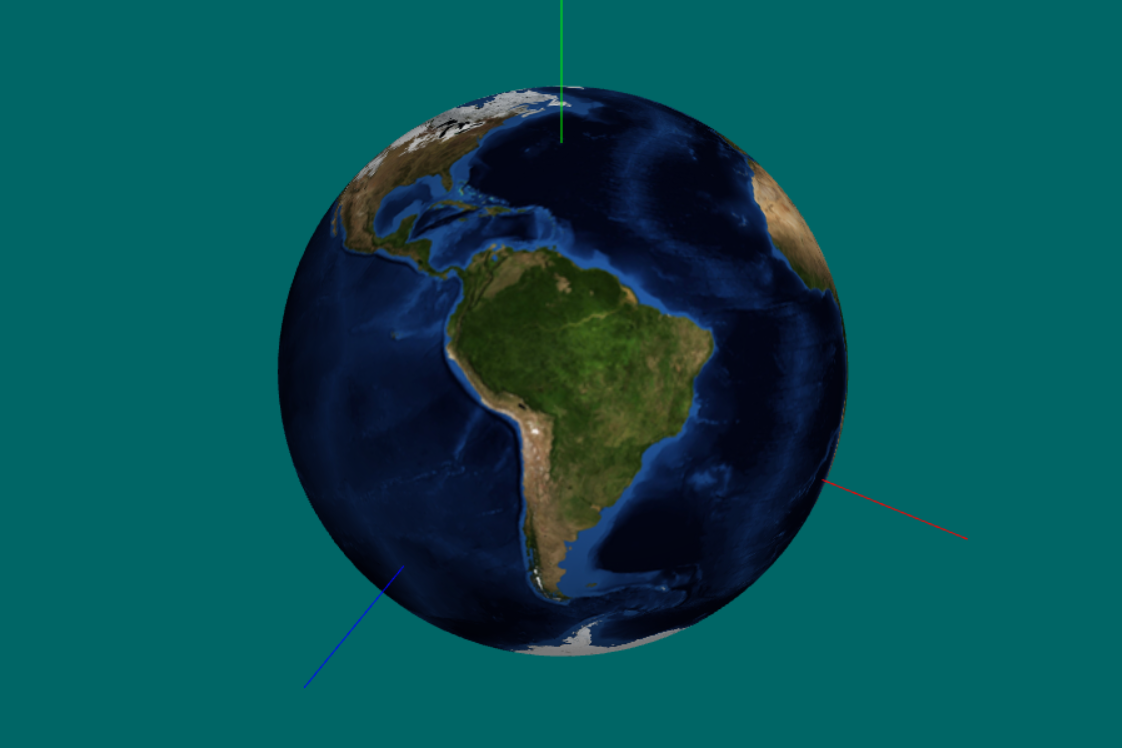
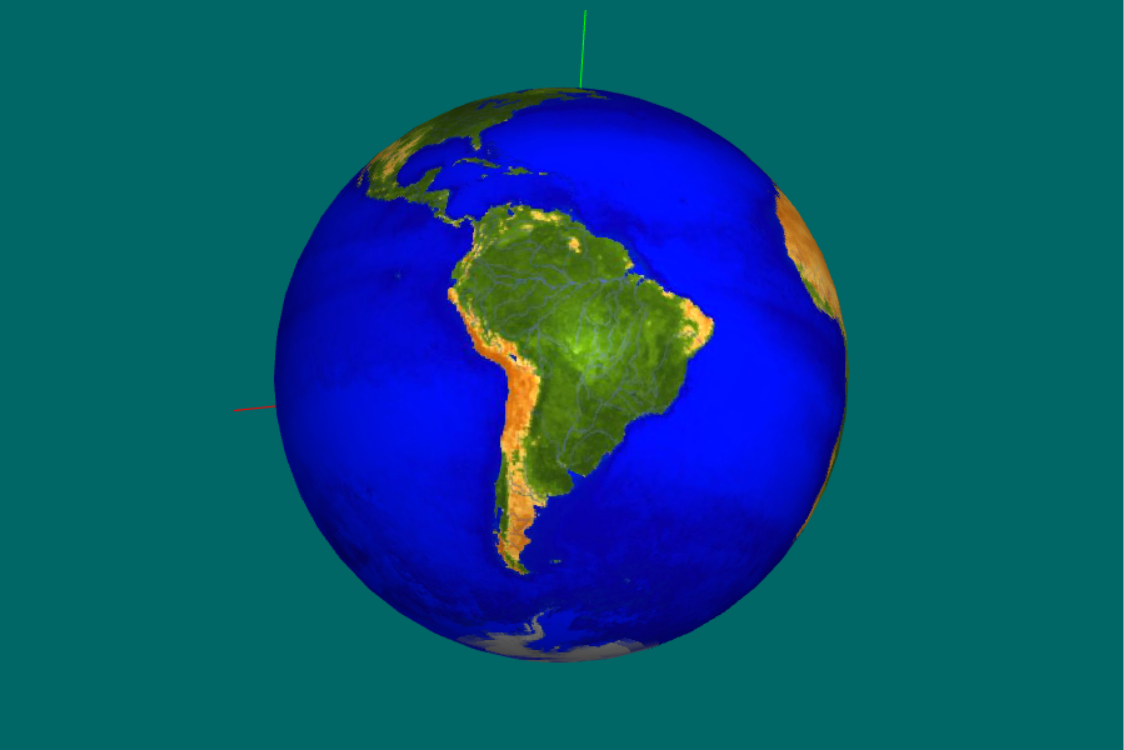
Better earth images.

diff --git a/13-webgl/extras/textures/index.html b/13-webgl/extras/textures/index.html
@@ -1,8 +1,9 @@
-<!DOCTYPE html>
+<!doctype html>
 <html>
     <head>
         <!-- Required meta tags -->
         <meta charset="utf-8" />
+        <meta name="viewport" content="width=device-width, initial-scale=1.0" />
     </head>
     <body>
         <ol>
@@ -14,6 +15,8 @@
             </li>
             <li><a href="Earth-1024x512.jpg">Earth</a></li>
             <li><a href="Ghost Busters.jpg">Ghost Busters</a></li>
+            <li><a href="GhostBusters-album.jpg">Ghost Busters Album</a></li>
+            <li><a href="GhostBusters.jpg">Ghost Busters Movie</a></li>
             <li><a href="Mila-1200x1200.jpg">Mila Jovovich</a></li>
             <li>
                 <a href="NDVI_84.jpg">Earth Colored</a>

diff --git a/13-webgl/extras/doc-light/module-mat4.html b/13-webgl/extras/doc-light/module-mat4.html
@@ -10892,7 +10892,7 @@ Passing null/undefined/no value for far will generate infinite projection matrix
 <br class="clear">
 
 <footer>
-    Documentation generated by <a href="https://github.com/jsdoc/jsdoc">JSDoc 4.0.2</a> on Tue Apr 16 2024 06:24:41 GMT-0300 (Brasilia Standard Time)
+    Documentation generated by <a href="https://github.com/jsdoc/jsdoc">JSDoc 4.0.2</a> on Tue Apr 16 2024 07:11:43 GMT-0300 (Brasilia Standard Time)
 </footer>
 
 <script> prettyPrint(); </script>

diff --git a/13-webgl/extras/doc-light/module-quat2.html b/13-webgl/extras/doc-light/module-quat2.html
@@ -7378,7 +7378,7 @@ NOTE: The resulting dual quaternions won't always be normalized (The error is mo
 <br class="clear">
 
 <footer>
-    Documentation generated by <a href="https://github.com/jsdoc/jsdoc">JSDoc 4.0.2</a> on Tue Apr 16 2024 06:24:41 GMT-0300 (Brasilia Standard Time)
+    Documentation generated by <a href="https://github.com/jsdoc/jsdoc">JSDoc 4.0.2</a> on Tue Apr 16 2024 07:11:43 GMT-0300 (Brasilia Standard Time)
 </footer>
 
 <script> prettyPrint(); </script>

diff --git a/13-webgl/extras/doc-light/module-glMatrix.html b/13-webgl/extras/doc-light/module-glMatrix.html
@@ -585,7 +585,7 @@ than or equal to 1.0, and a relative tolerance is used for larger values)
 <br class="clear">
 
 <footer>
-    Documentation generated by <a href="https://github.com/jsdoc/jsdoc">JSDoc 4.0.2</a> on Tue Apr 16 2024 06:24:41 GMT-0300 (Brasilia Standard Time)
+    Documentation generated by <a href="https://github.com/jsdoc/jsdoc">JSDoc 4.0.2</a> on Tue Apr 16 2024 07:11:43 GMT-0300 (Brasilia Standard Time)
 </footer>
 
 <script> prettyPrint(); </script>

diff --git a/13-webgl/extras/doc-light/module-vec3.html b/13-webgl/extras/doc-light/module-vec3.html
@@ -9145,7 +9145,7 @@ Can also be used for dual quaternions. (Multiply it with the real part)
 <br class="clear">
 
 <footer>
-    Documentation generated by <a href="https://github.com/jsdoc/jsdoc">JSDoc 4.0.2</a> on Tue Apr 16 2024 06:24:41 GMT-0300 (Brasilia Standard Time)
+    Documentation generated by <a href="https://github.com/jsdoc/jsdoc">JSDoc 4.0.2</a> on Tue Apr 16 2024 07:11:43 GMT-0300 (Brasilia Standard Time)
 </footer>
 
 <script> prettyPrint(); </script>

diff --git a/13-webgl/extras/doc-light/module-vec2.html b/13-webgl/extras/doc-light/module-vec2.html
@@ -8074,7 +8074,7 @@ Note that the cross product must by definition produce a 3D vector
 <br class="clear">
 
 <footer>
-    Documentation generated by <a href="https://github.com/jsdoc/jsdoc">JSDoc 4.0.2</a> on Tue Apr 16 2024 06:24:41 GMT-0300 (Brasilia Standard Time)
+    Documentation generated by <a href="https://github.com/jsdoc/jsdoc">JSDoc 4.0.2</a> on Tue Apr 16 2024 07:11:43 GMT-0300 (Brasilia Standard Time)
 </footer>
 
 <script> prettyPrint(); </script>

diff --git a/13-webgl/extras/doc-light/index.html b/13-webgl/extras/doc-light/index.html
@@ -848,7 +848,7 @@ which is then projected onto the surface of the sphere.</div>
 <br class="clear">
 
 <footer>
-    Documentation generated by <a href="https://github.com/jsdoc/jsdoc">JSDoc 4.0.2</a> on Tue Apr 16 2024 06:24:41 GMT-0300 (Brasilia Standard Time)
+    Documentation generated by <a href="https://github.com/jsdoc/jsdoc">JSDoc 4.0.2</a> on Tue Apr 16 2024 07:11:43 GMT-0300 (Brasilia Standard Time)
 </footer>
 
 <script> prettyPrint(); </script>

diff --git a/13-webgl/extras/doc-light/SimpleRotator.html b/13-webgl/extras/doc-light/SimpleRotator.html
@@ -1125,7 +1125,7 @@ If not present, the length of viewDirectionVector is used.
 <br class="clear">
 
 <footer>
-    Documentation generated by <a href="https://github.com/jsdoc/jsdoc">JSDoc 4.0.2</a> on Tue Apr 16 2024 06:24:41 GMT-0300 (Brasilia Standard Time)
+    Documentation generated by <a href="https://github.com/jsdoc/jsdoc">JSDoc 4.0.2</a> on Tue Apr 16 2024 07:11:43 GMT-0300 (Brasilia Standard Time)
 </footer>
 
 <script> prettyPrint(); </script>

diff --git a/13-webgl/extras/doc-light/module-mat2.html b/13-webgl/extras/doc-light/module-mat2.html
@@ -4812,7 +4812,7 @@ This is equivalent to (but much faster than):
 <br class="clear">
 
 <footer>
-    Documentation generated by <a href="https://github.com/jsdoc/jsdoc">JSDoc 4.0.2</a> on Tue Apr 16 2024 06:24:41 GMT-0300 (Brasilia Standard Time)
+    Documentation generated by <a href="https://github.com/jsdoc/jsdoc">JSDoc 4.0.2</a> on Tue Apr 16 2024 07:11:43 GMT-0300 (Brasilia Standard Time)
 </footer>
 
 <script> prettyPrint(); </script>

diff --git a/13-webgl/extras/doc-light/module-mat2d.html b/13-webgl/extras/doc-light/module-mat2d.html
@@ -4737,7 +4737,7 @@ This is equivalent to (but much faster than):
 <br class="clear">
 
 <footer>
-    Documentation generated by <a href="https://github.com/jsdoc/jsdoc">JSDoc 4.0.2</a> on Tue Apr 16 2024 06:24:41 GMT-0300 (Brasilia Standard Time)
+    Documentation generated by <a href="https://github.com/jsdoc/jsdoc">JSDoc 4.0.2</a> on Tue Apr 16 2024 07:11:43 GMT-0300 (Brasilia Standard Time)
 </footer>
 
 <script> prettyPrint(); </script>

diff --git a/13-webgl/extras/doc-light/module-mat3.html b/13-webgl/extras/doc-light/module-mat3.html
@@ -6160,7 +6160,7 @@ This is equivalent to (but much faster than):
 <br class="clear">
 
 <footer>
-    Documentation generated by <a href="https://github.com/jsdoc/jsdoc">JSDoc 4.0.2</a> on Tue Apr 16 2024 06:24:41 GMT-0300 (Brasilia Standard Time)
+    Documentation generated by <a href="https://github.com/jsdoc/jsdoc">JSDoc 4.0.2</a> on Tue Apr 16 2024 07:11:43 GMT-0300 (Brasilia Standard Time)
 </footer>
 
 <script> prettyPrint(); </script>

diff --git a/13-webgl/extras/doc-light/lib_teal_book_cuon-utils.js.html b/13-webgl/extras/doc-light/lib_teal_book_cuon-utils.js.html
@@ -171,7 +171,7 @@ function getWebGLContext(canvas, opt_debug) {
 <br class="clear">
 
 <footer>
-    Documentation generated by <a href="https://github.com/jsdoc/jsdoc">JSDoc 4.0.2</a> on Tue Apr 16 2024 06:24:41 GMT-0300 (Brasilia Standard Time)
+    Documentation generated by <a href="https://github.com/jsdoc/jsdoc">JSDoc 4.0.2</a> on Tue Apr 16 2024 07:11:43 GMT-0300 (Brasilia Standard Time)
 </footer>
 
 <script> prettyPrint(); </script>
